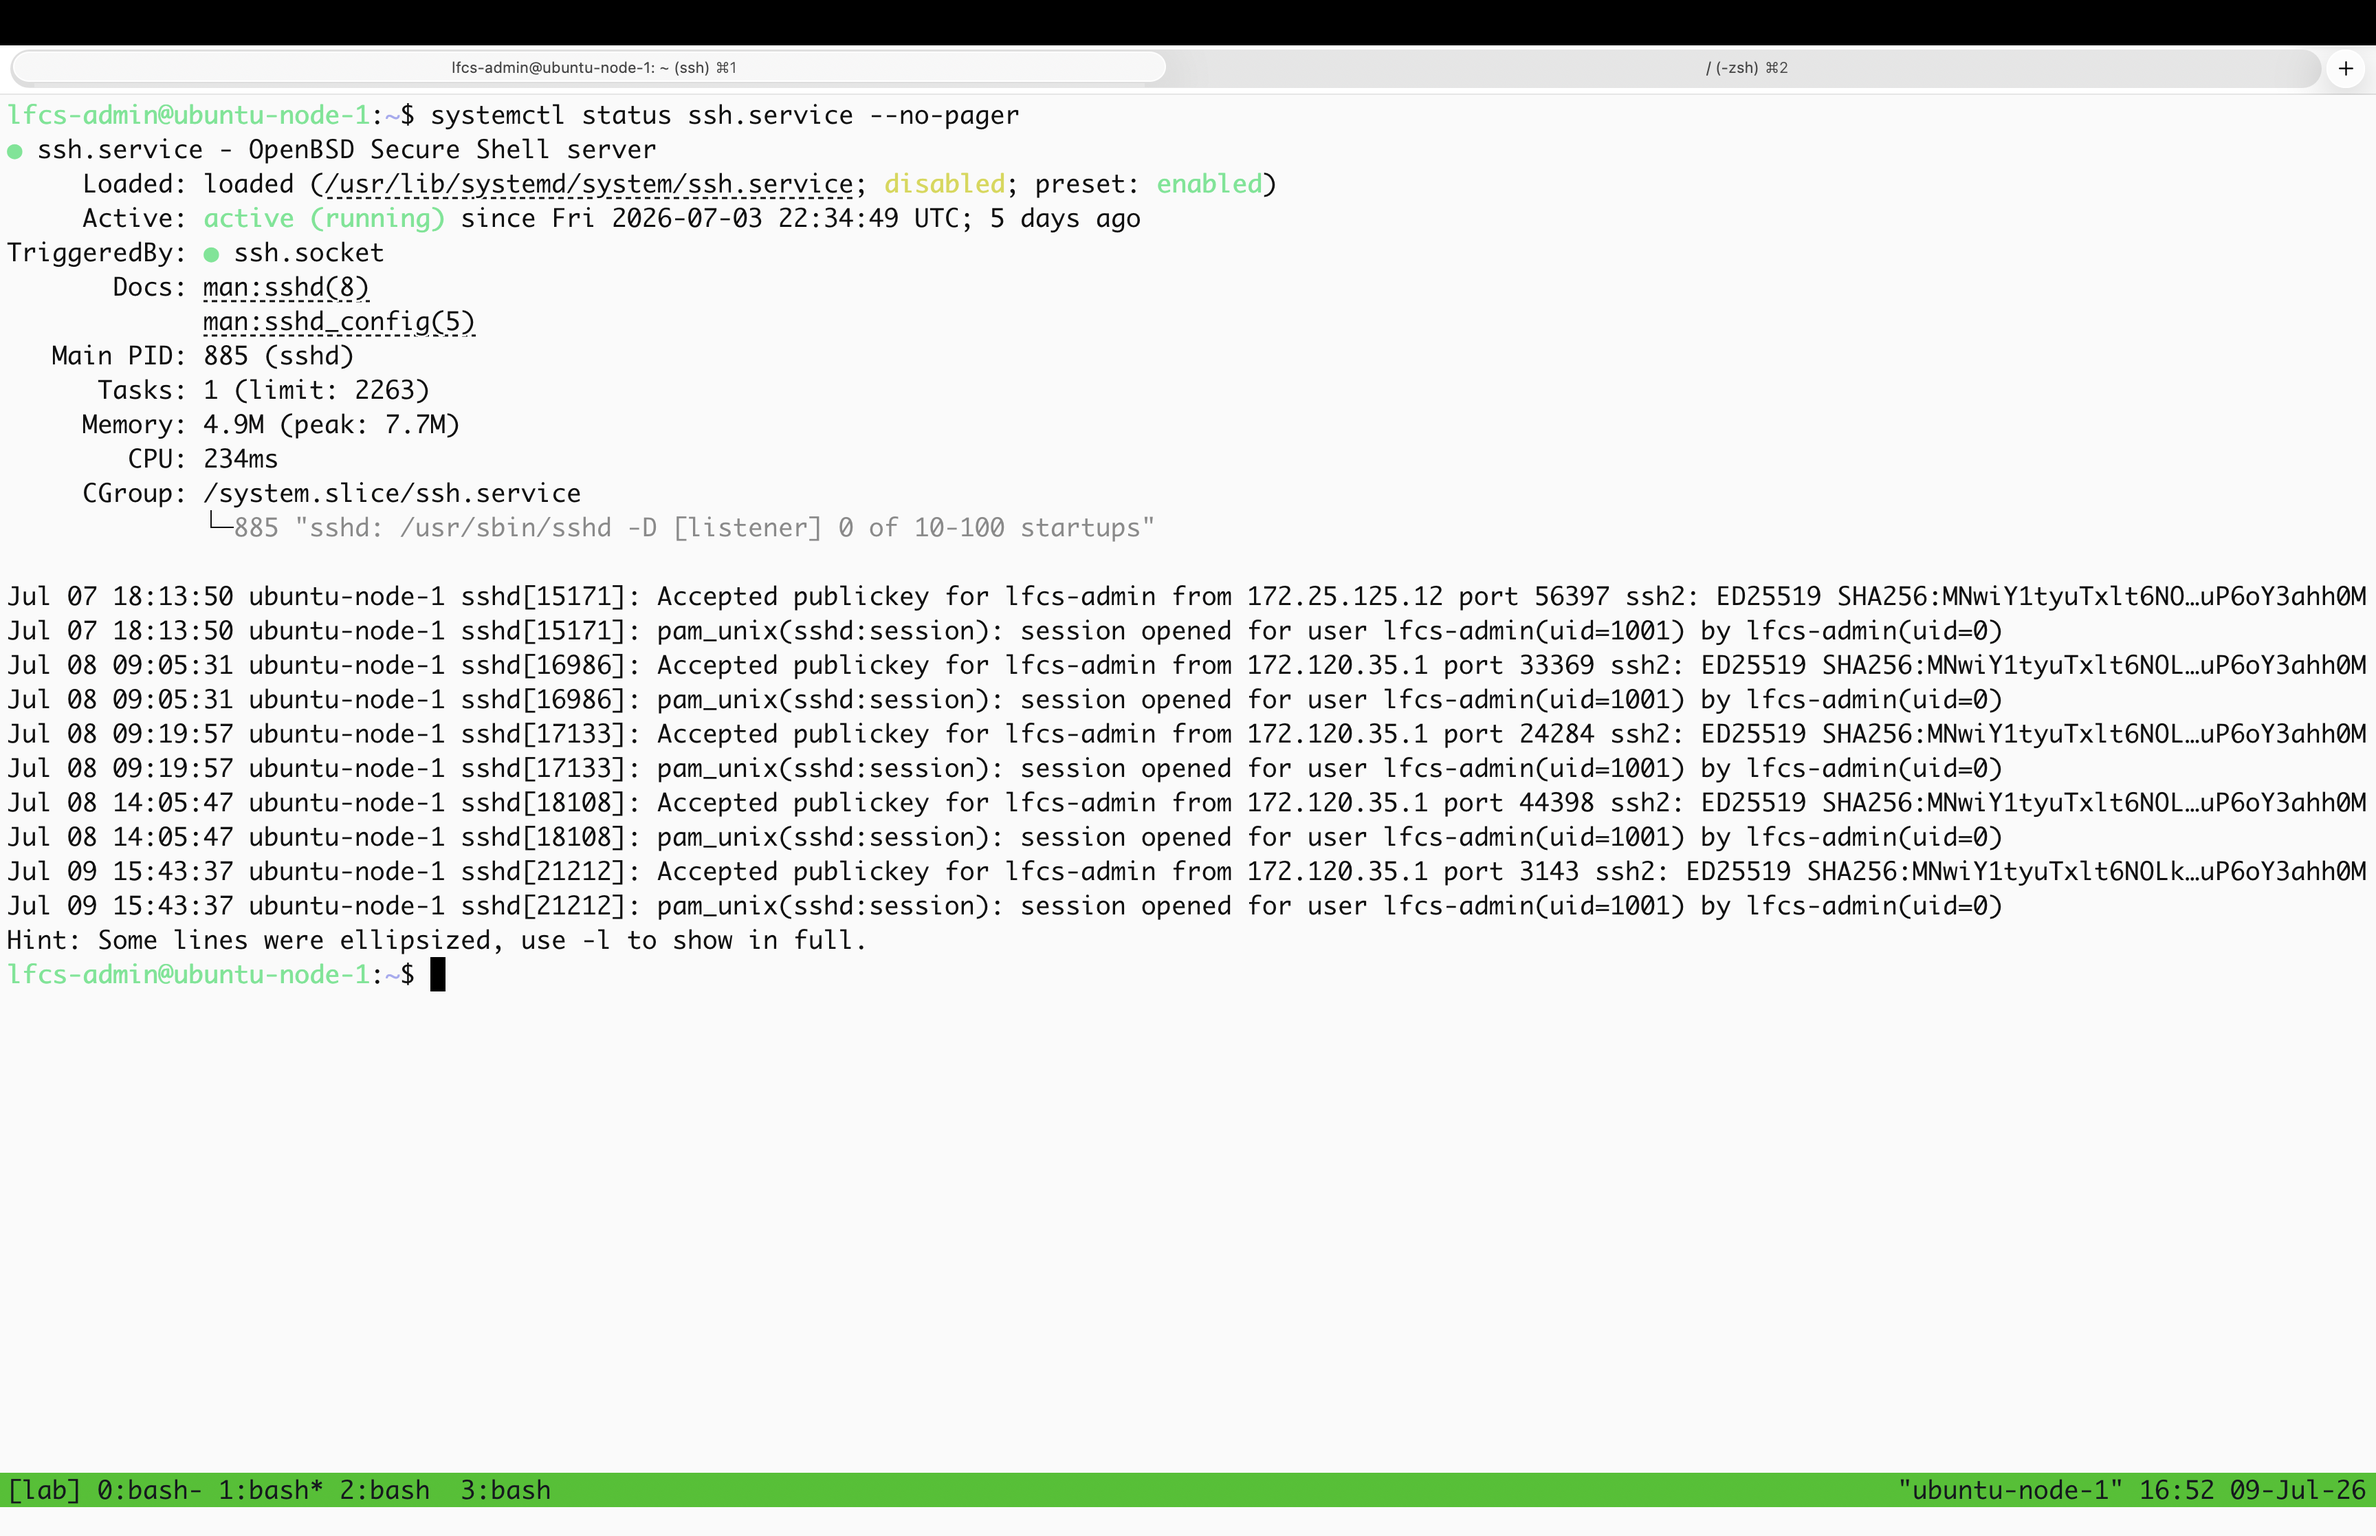
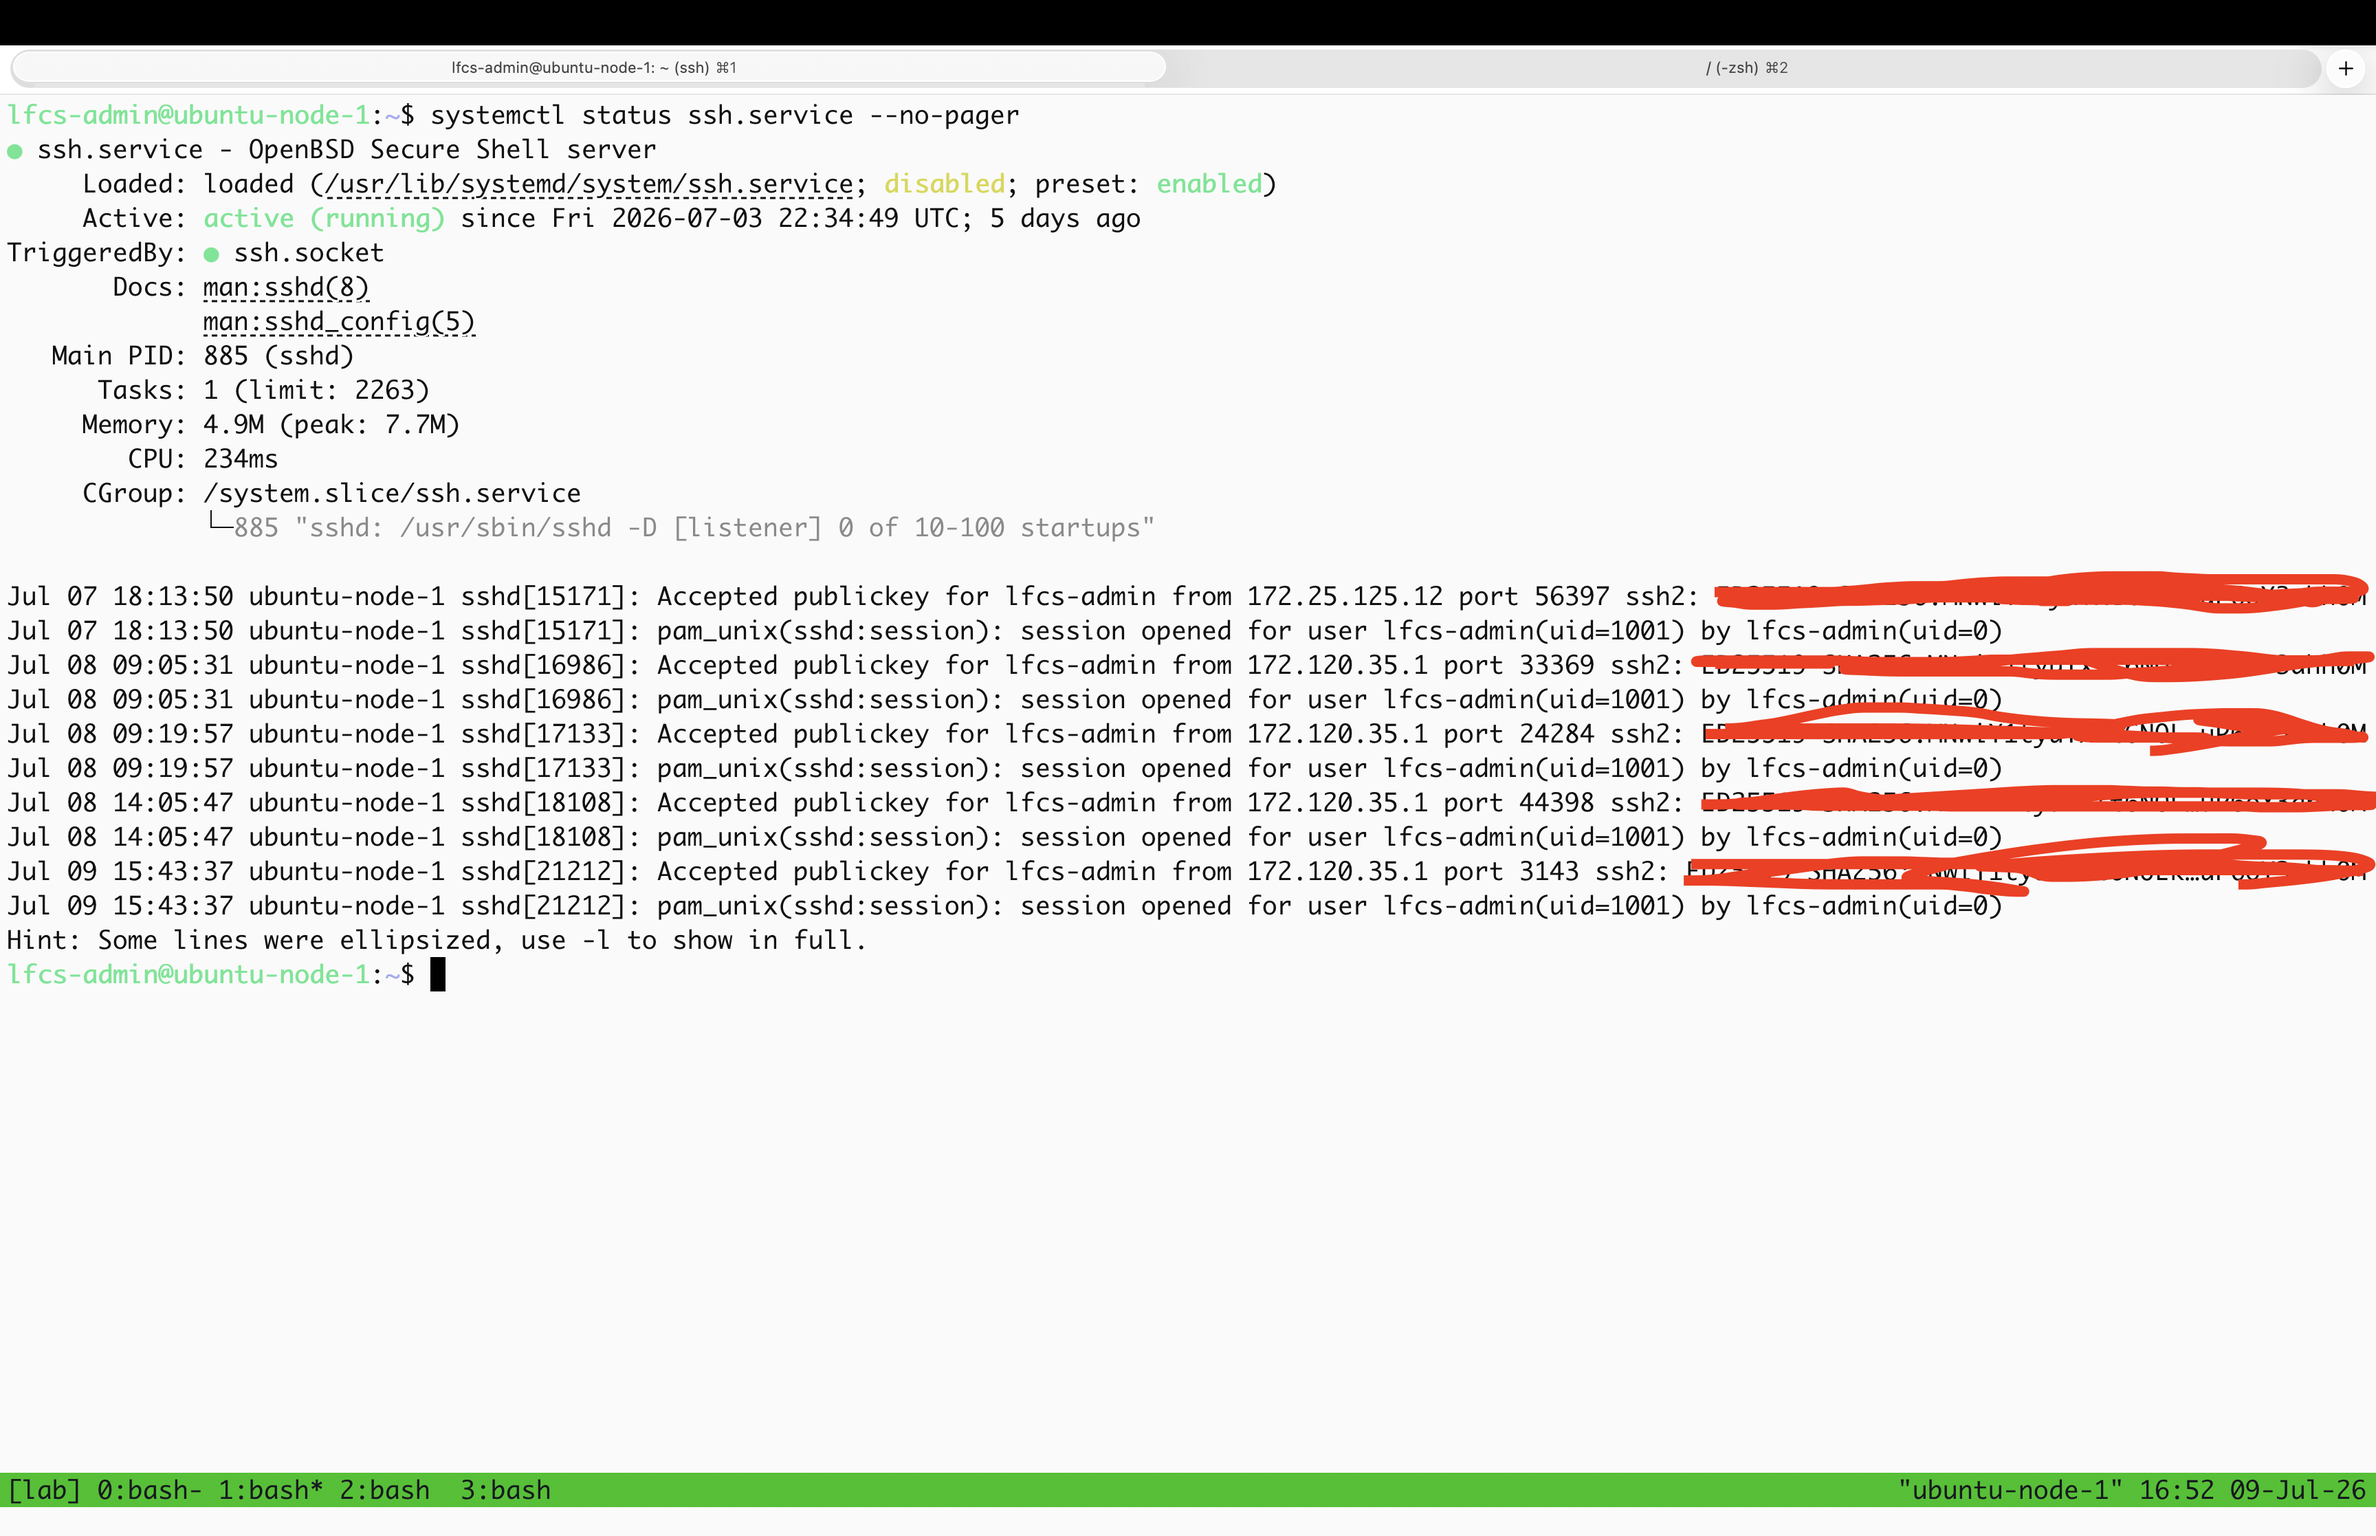
journalctl: added service status + journalctl difference, added evidence and notes

Changed region(s): [[0.6875, 0.3706, 1.0, 0.5868]]

diff --git a/phase-01-linux-foundations/journalctl-logs/README.md b/phase-01-linux-foundations/journalctl-logs/README.md
@@ -1,21 +1,59 @@
 Logs & journalctl
 
-ssh.service will be used
+#### Service status vs Journal logs
 
-confirmed state and logs using "systemctl status ssh.service"<br>
-the service state was active(running), the main PID: 885
+I used "ssh.service" was used because the system already had SSH activity
 
-the recent logs show by systemctl were:
-timestamped activities and child processes pid, the events were public key authorization and confirmation off opening sessions, this prooves there was an active ssh connection. 
+confirmed state and logs using `systemctl status ssh.service --no pager`<br>
+
+output showed:
+the service state was active(running), the main PID: 885, which is the main ssh listener tracked by systemd 
+
+
+logs of recent journal entries related to the unit including: <br>
+`Accepted publickey for lfcs-admin`<br>
+`pam_unix(sshd:session): session opened`
+
+these are SSH authentication and PAM session events, the list does not prove that there is still active ssh sessions. The logs show events proving that it happened.
 
 ![ss](/phase-01-linux-foundations/journalctl-logs/lab_images/Screenshot1.png)
 
-for journalctl logs"
+I then ran `journalctl -u ssh.service -n 20`
 
-"journalctl -u ssh.service"
-
-the last 20 logs od the service unit were shown, exact logs format as systectl status command, however, journalctl onlky shows logs where as systemctl shows both state and logs
+This showed recent(last 20) journal entries associated to `ssh.service` 
 
 ![ss](/phase-01-linux-foundations/journalctl-logs/lab_images/Screenshot2.png)
 
-The logs type are ssh login and session logs.
+
+the difference between the two queries is that
+
+`sysetmtctl status ssh.service` shows the current unit state and recent related logs
+
+`journalctl -u ssh.service` shows journal entries specific to that unit
+
+#### wrong filter applied
+
+I intentionally ran:
+"journalctl --user-unit=sshd"<br>
+
+this returned `No entries`
+![ss](/phase-01-linux-foundations/journalctl-logs/lab_images/Screenshot3.png)
+
+this filter is wrong because:
+`--user-unit=sshd` searches user-scoped systemd units. SSH is running as a system service unit, not as a user session unit.
+
+I then ran:
+
+`journalctl -u ssh.service`<br>
+this returned  SSH authentication and session logs.
+
+![ss](/phase-01-linux-foundations/journalctl-logs/lab_images/Screenshot4.png)
+
+The difference is:
+
+`ssh.service` is the sytemd unit name
+
+`sshd` is the daemom/process name
+
+`--user-unit` searches user-scoped units<br>
+`-u ssh.service` filters journal entries for the system service unit.
